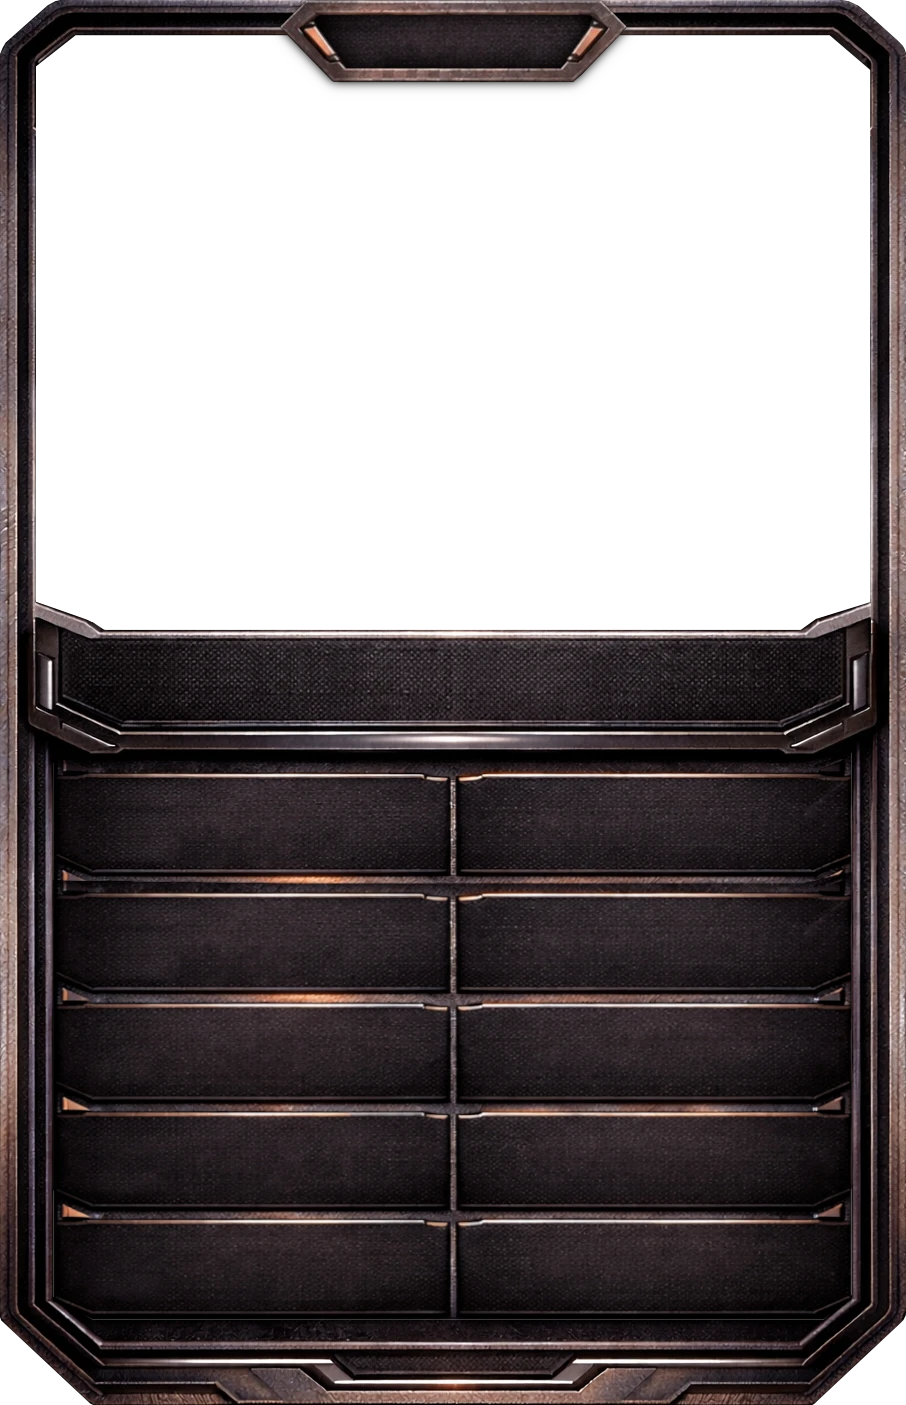
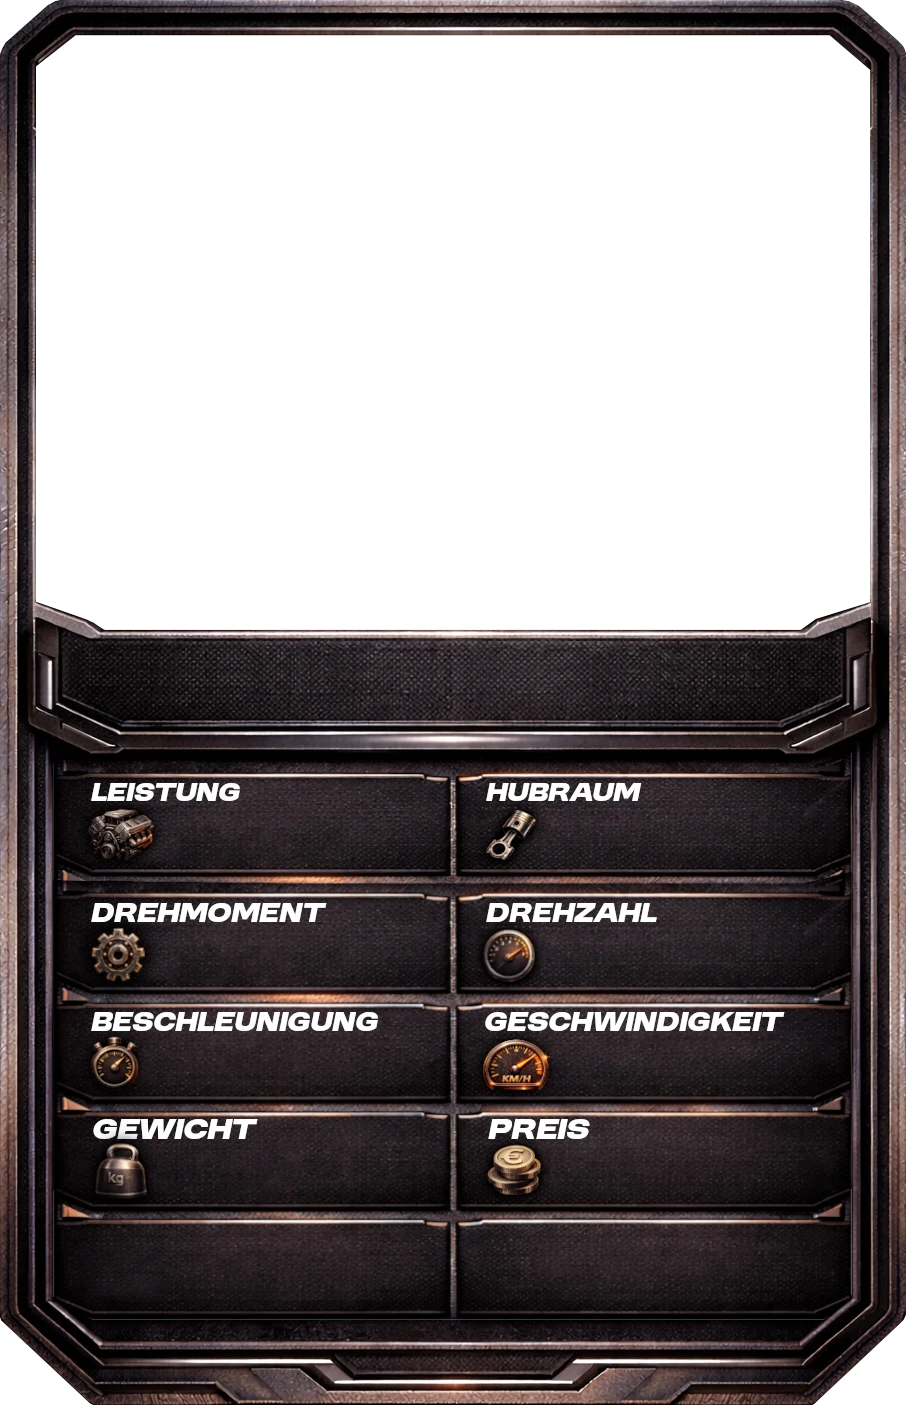
Kartenbild mit eingebauten Beschriftungen und Symbolen (8 Felder), nur die Werte kommen aus dem HTML; Hervorheben deckt das Bild nicht mehr ab (#76)
Claude-Session: https://claude.ai/code/session_01C7nKDJ2mJb75MHajo9WDy9

diff --git a/src/App.jsx b/src/App.jsx
@@ -1335,6 +1335,10 @@ const CARD_FIELDS = [
   { key: "performance", label: "Performance", icon: "flag", rating: "flag" }
 ];
 
+// Felder, deren Beschriftung und Symbol schon im Rahmenbild (src/card-frame.webp) stehen. Nur der Wert kommt aus dem HTML.
+// Sobald Rarität und Performance ebenfalls im Bild stehen, hier „raritaet“ und „performance“ ergänzen.
+const BAKED_FIELDS = new Set(["leistung", "hubraum", "drehmoment", "drehzahl", "beschleunigung", "hoechstgeschwindigkeit", "gewicht", "preis"]);
+
 function cardValue(card, key) {
   const value = Number(card[key]);
   if (card[key] == null || !Number.isFinite(value) || value <= 0) return null;
@@ -1375,8 +1379,14 @@ const VehicleCard = memo(function VehicleCard({ card, categories, selectable = f
               key={field.key}
               title={canPick ? `${rule.label} wählen` : undefined}
             >
-              <span className="stat-label">{field.label}</span>
-              <GtIcon type={field.icon} />
+              {BAKED_FIELDS.has(field.key) ? (
+                <span className="sr-only">{field.label}</span>
+              ) : (
+                <>
+                  <span className="stat-label">{field.label}</span>
+                  <GtIcon type={field.icon} />
+                </>
+              )}
               {field.rating ? (
                 <RatingSymbols kind={field.rating} value={Number(card[field.key]) || 0} />
               ) : (

diff --git a/src/styles.css b/src/styles.css
@@ -2156,9 +2156,8 @@ input:focus-visible {
 .portrait-stat.is-selectable:focus-visible,
 .portrait-stat.is-highlighted {
   outline: 0;
-  background:
-    linear-gradient(180deg, rgba(249,144,42,.34), rgba(249,144,42,.1)),
-    linear-gradient(180deg, #2b2123, #0e0a0b);
+  /* nur ein Farbschleier, damit Beschriftung und Symbol aus dem Kartenbild sichtbar bleiben */
+  background: linear-gradient(180deg, rgba(249,144,42,.34), rgba(249,144,42,.1));
   box-shadow: inset 0 0 0 5px var(--acid), 0 0 24px rgba(249,144,42,.55);
 }
 
@@ -6373,3 +6372,17 @@ button.tier-frame:hover { transform: translateY(-3px); transition: transform 0.1
 .pack-dots i.tier-3 { --dot-color: var(--tier-3); }
 .pack-dots i.tier-4 { --dot-color: var(--tier-4); }
 .pack-dots i.tier-5 { --dot-color: var(--tier-5); }
+
+/* nur für Screenreader sichtbar (Beschriftung steht im Kartenbild) */
+.sr-only {
+  position: absolute;
+  width: 1px;
+  height: 1px;
+  margin: -1px;
+  padding: 0;
+  overflow: hidden;
+  clip: rect(0 0 0 0);
+  clip-path: inset(50%);
+  white-space: nowrap;
+  border: 0;
+}
